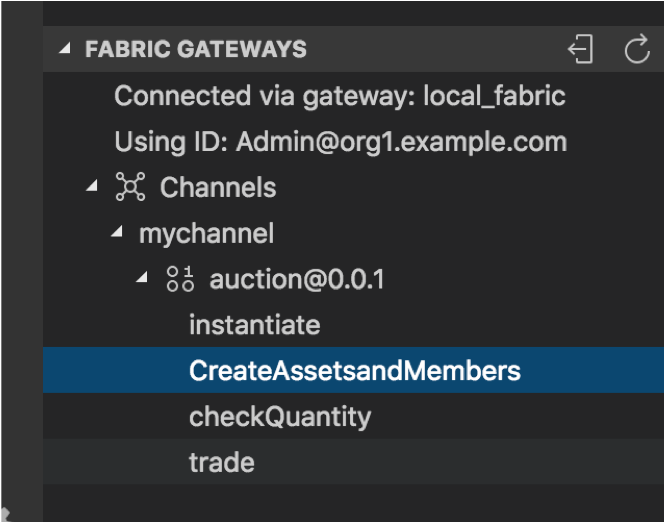
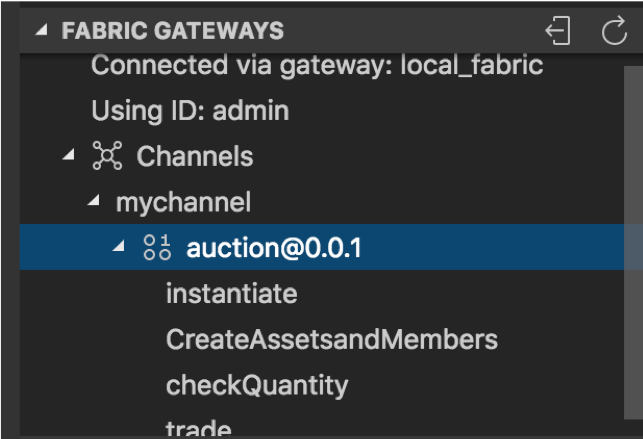
updating readme and images

diff --git a/README.md b/README.md
@@ -199,7 +199,7 @@ Now that the Fabric network is running, we need to install our smart contract on
 
 ### Install
 
-* In the `Local Fabric Ops` section near the bottom, click on `Install`.  You will see a pop-up similar to the graphic below.  Select `peer0.org1.example.com` 
+* In the `Local Fabric Ops` section near the bottom, click on `Install`.  You will see a pop-up similar to the graphic below. 
 
 <p align="center">
   <img src="doc-images/InstallOnPeer.png">
@@ -220,9 +220,9 @@ After the install is complete, you should get a message `Successfully installed 
 
 * The extension will then ask you which function to call — type in `instantiate`
 
-* The extension will then ask you do you want to use a provide a private data collect configuration file? - Click on `no`.
-
 * Next, it will ask you for the arguments. There are none, so just hit enter.
+
+* Lastly, the extension will then ask you do you want to use a provide a private data collect configuration file? - Click on `no`.
 
 <p align="center">
   <img src="doc-images/instantiate.png">
@@ -233,7 +233,7 @@ You should get the message `Successfully instantiated smart contract` and see `a
 
 ## 8. Test the transactions
 
-You can test out the transactions right in the VSCode platform.  If you click on `Admin@org1.example.com`, then click on `mychannel`, then click on `auction@0.0.1`  - expand it to show the following:
+You can test out the transactions right in the VSCode platform.  Under the `Fabric Gateways` section, click on `local_fabric`, then click on `mychannel`, then click on `auction@0.0.1`  - expand it to show the following:
 
 <p align="center">
   <img src="doc-images/transactions.png">
@@ -243,7 +243,7 @@ Notice that all of the transactions that you created in the `auction.js` file ar
 
 At this point, you will have created the 2 instances of commodities and 2 instances of traders.
 
-Now let's submit the `checkQuantity` transaction.  Similarly, right-hand click on the the `checkQuantity` transaction. This time you do have to enter an option. It has to be in a `["key", "value"` format.  Enter `"commodity", "GOLD"` as a parameter. You should see the following response in your output window:
+Now let's submit the `checkQuantity` transaction.  Similarly, right-hand click on the the `checkQuantity` transaction. This time you do have to enter an option. It has to be in a `["key", "value"]` format.  Enter `"commodity", "GOLD"` as a parameter. You should see the following response in your output window:
 
 <p align="center">
   <img src="doc-images/output-quantity-transaction.png">
